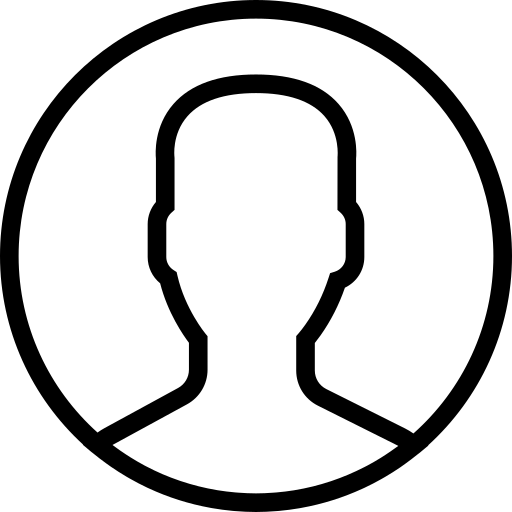
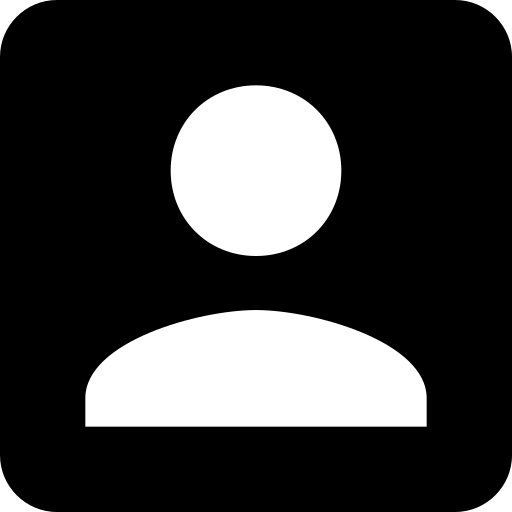
privacy,HeadlessJS-수정전저장

diff --git a/src/screens/auth/Privacy.js b/src/screens/auth/Privacy.js
@@ -1,6 +1,8 @@
 import React from "react";
-import { View, Text, Button, StyleSheet } from "react-native";
+import {StyleSheet, Text, View, Image, TouchableOpacity} from "react-native";
 import MyHeader from "../../components/MyHeader";
+
+//source={{uri: }}
 
 export default class Privacy extends React.Component {
   render() {
@@ -8,17 +10,92 @@ export default class Privacy extends React.Component {
       <View style={{ flex: 1 }}>
         <MyHeader navigation={this.props.navigation} title="내 정보"></MyHeader>
         <View style={styles.container}>
-          <Text style={{ textAlign: "center" }}>내 정보</Text>
+          <View style={styles.header}></View>
+          <Image style={styles.avatar} source={require("../auth/ex.png")}/> 
+          <View style={styles.body}>
+            <View style={styles.bodyContent}>
+              <Text style={styles.name}>abc123</Text>
+              <Text style={styles.description}>정보</Text>
+              
+              <TouchableOpacity style={styles.buttonContainer1}>
+                <Text>수정하기</Text>  
+              </TouchableOpacity>              
+              <TouchableOpacity style={styles.buttonContainer2}>
+                <Text>회원탈퇴</Text> 
+              </TouchableOpacity>
+            </View>
         </View>
       </View>
+      </View>
+
     );
   }
 }
 
 const styles = StyleSheet.create({
-  container: {
+  header:{
+    backgroundColor: "gainsboro",
+    height:200,
+  },
+  avatar: {
+    width: 130,
+    height: 130,
+    borderRadius: 63,
+    borderWidth: 4,
+    borderColor: "white",
+    marginBottom:10,
+    alignSelf:'center',
+    position: 'absolute',
+    marginTop:130
+  },
+  name:{
+    fontSize:28,
+    color:"#FFFFFF",
+    fontWeight:'600',
+  },
+  body:{
+    marginTop:40,
+  },
+  bodyContent: {
     flex: 1,
-    justifyContent: "center",
-    alignItems: "center"
-  }
-});
+    alignItems: 'center',
+    padding:30,
+  },
+  name:{
+    fontSize:28,
+    color: "#696969",
+    fontWeight: "600"
+  },
+  info:{
+    fontSize:16,
+    color: "#00BFFF",
+    marginTop:10
+  },
+  description:{
+    fontSize:16,
+    color: "#696969",
+    marginTop:10,
+    textAlign: 'center'
+  },
+  buttonContainer1: {
+    marginTop:10,
+    height:45,
+    flexDirection: 'row',
+    justifyContent: 'center',
+    alignItems: 'center',
+    marginBottom:20,
+    width:150,
+    borderRadius:30,
+    backgroundColor: "gainsboro",
+  },
+  buttonContainer2: {
+    height:45,
+    flexDirection: 'row',
+    justifyContent: 'center',
+    alignItems: 'center',
+    width:150,
+    borderRadius:30,
+    backgroundColor: "gainsboro",
+  },
+}
+);

diff --git a/src/navigations/MainNav.js b/src/navigations/MainNav.js
@@ -26,14 +26,15 @@ const DrawerContent = props => {
         }}
       >
         <Avatar
-          size="xlarge"
+          size="large"
+          overlayContainerStyle={{backgroundColor: 'white'}}
           rounded
           onPress={() => props.navigation.navigate("Privacy")}
           containerStyle={{ padding: 20 }}
-          source={require("../assets/Images/account.png")}
+          source={require("../assets/Images/ex.png")}
         />
-        <Text style={{ paddingEnd: 50, fontSize: 20, color: "black" }}>
-          임 태호
+        <Text style={{ paddingRight:130, fontSize: 23, color: "black" }}>
+          abc123
         </Text>
       </View>
       <DrawerItems {...props} />

diff --git a/index.js b/index.js
@@ -1,4 +1,5 @@
 /** @format */
+//import Privacy from "./src/screens/auth/Privacy";
 
 import { AppRegistry } from "react-native";
 import Start from "./src/Start";
